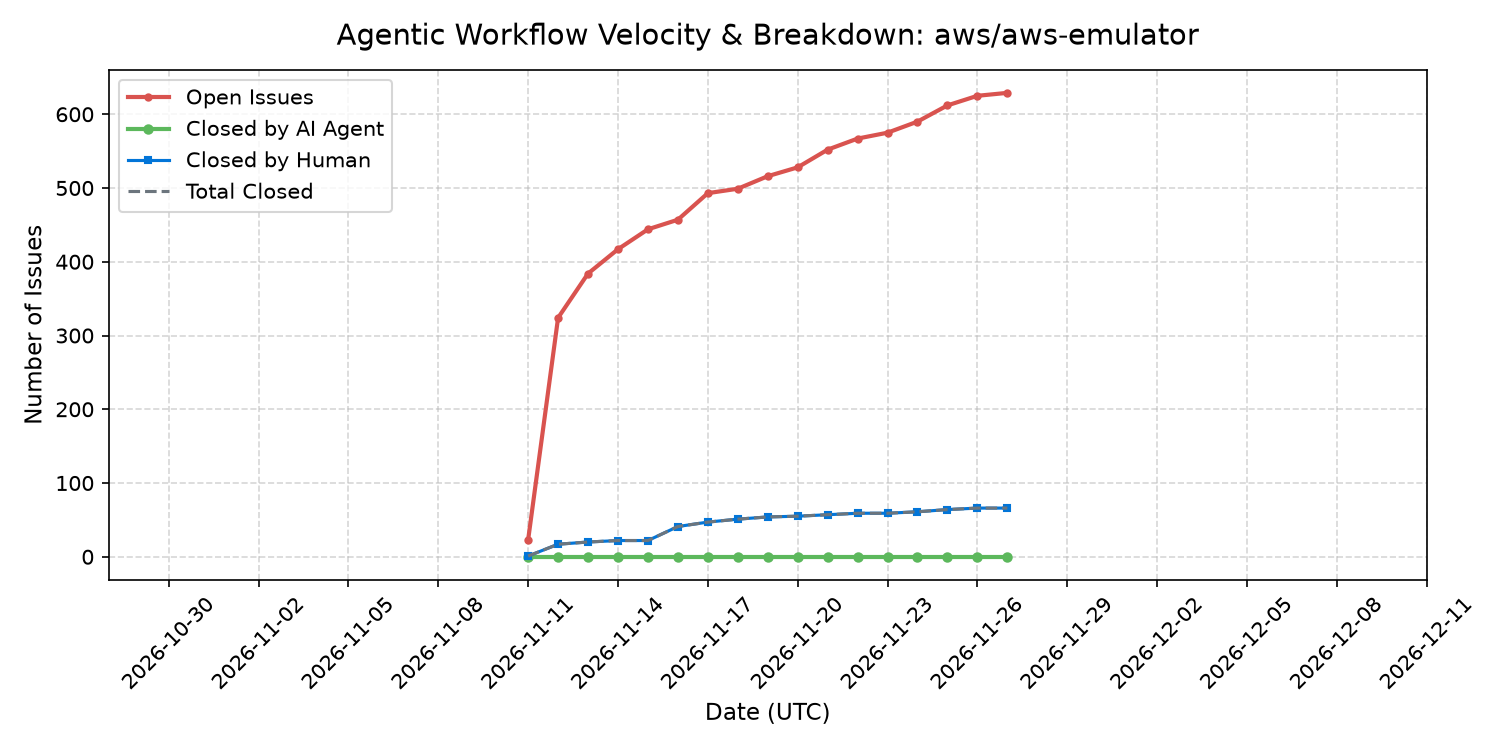
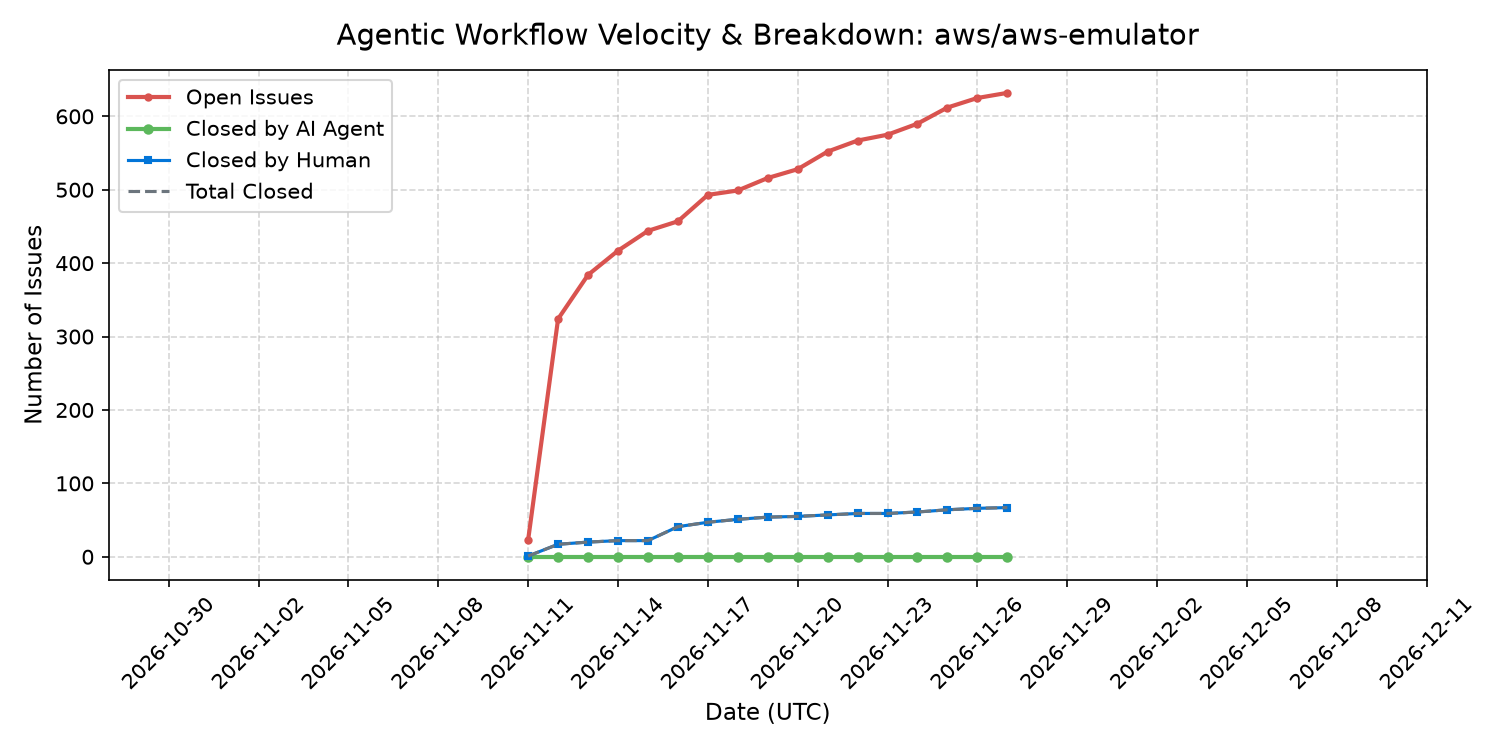
chore: update issue metrics & doomsday clock (2026-11-27) - scheduled check

diff --git a/README.md b/README.md
@@ -12,16 +12,16 @@ Automated tracking of open and closed issues in [`aws/aws-emulator`](https://git
 ## Current Snapshot & Developer Doomsday Clock
 
 <!-- STATS_START -->
-**Last Checked:** 2026-11-27 07:38 UTC  
+**Last Checked:** 2026-11-27 20:55 UTC  
 **Update Schedule:** every 6 hours (00:05, 06:05, 12:05, 18:05 UTC)  
 - **Developer Doomsday Clock (v2):** 12.0 hours to midnight (clock reads 12:00)  
 - **Agent Resolution Share:** 50.0% combined (public issues 0.0%, agents' own queue 100.0%, weighted 50% / 50%)  
-- **Bug Doom Loop Ratio (public issues):** 10.4 opened per issue closed (last 7.3 days)  
-- **Open Issues:** 629  
+- **Bug Doom Loop Ratio (public issues):** 9.9 opened per issue closed (last 7.9 days)  
+- **Open Issues:** 632  
 - **Closed by AI Agent:** 0  
-- **Closed by Human:** 66  
-- **Closures That Reference a Fix:** 14 of 66 (0 without a reference, 1 declined, 50 withdrawn by the reporter, 1 duplicate)  
-- **Agents' Own Queue (in-repo):** 3,341 open, 21,746 resolved (0 by people)
+- **Closed by Human:** 67  
+- **Closures That Reference a Fix:** 14 of 67 (0 without a reference, 1 declined, 51 withdrawn by the reporter, 1 duplicate)  
+- **Agents' Own Queue (in-repo):** 3,618 open, 22,008 resolved (0 by people)
 <!-- STATS_END -->
 
 ### The Developer Doomsday Clock
